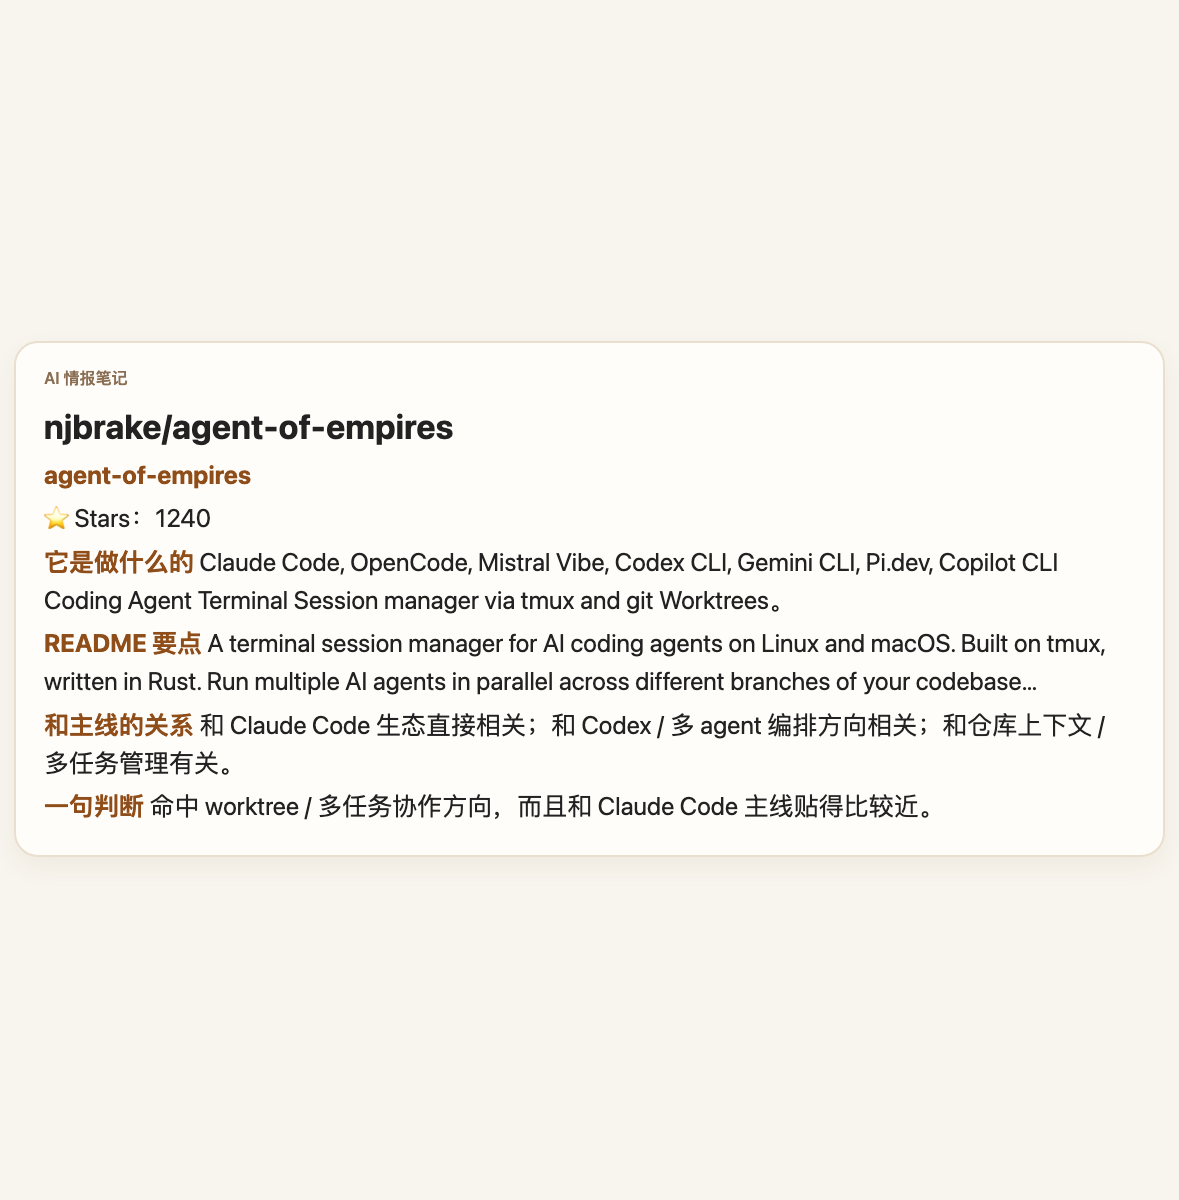
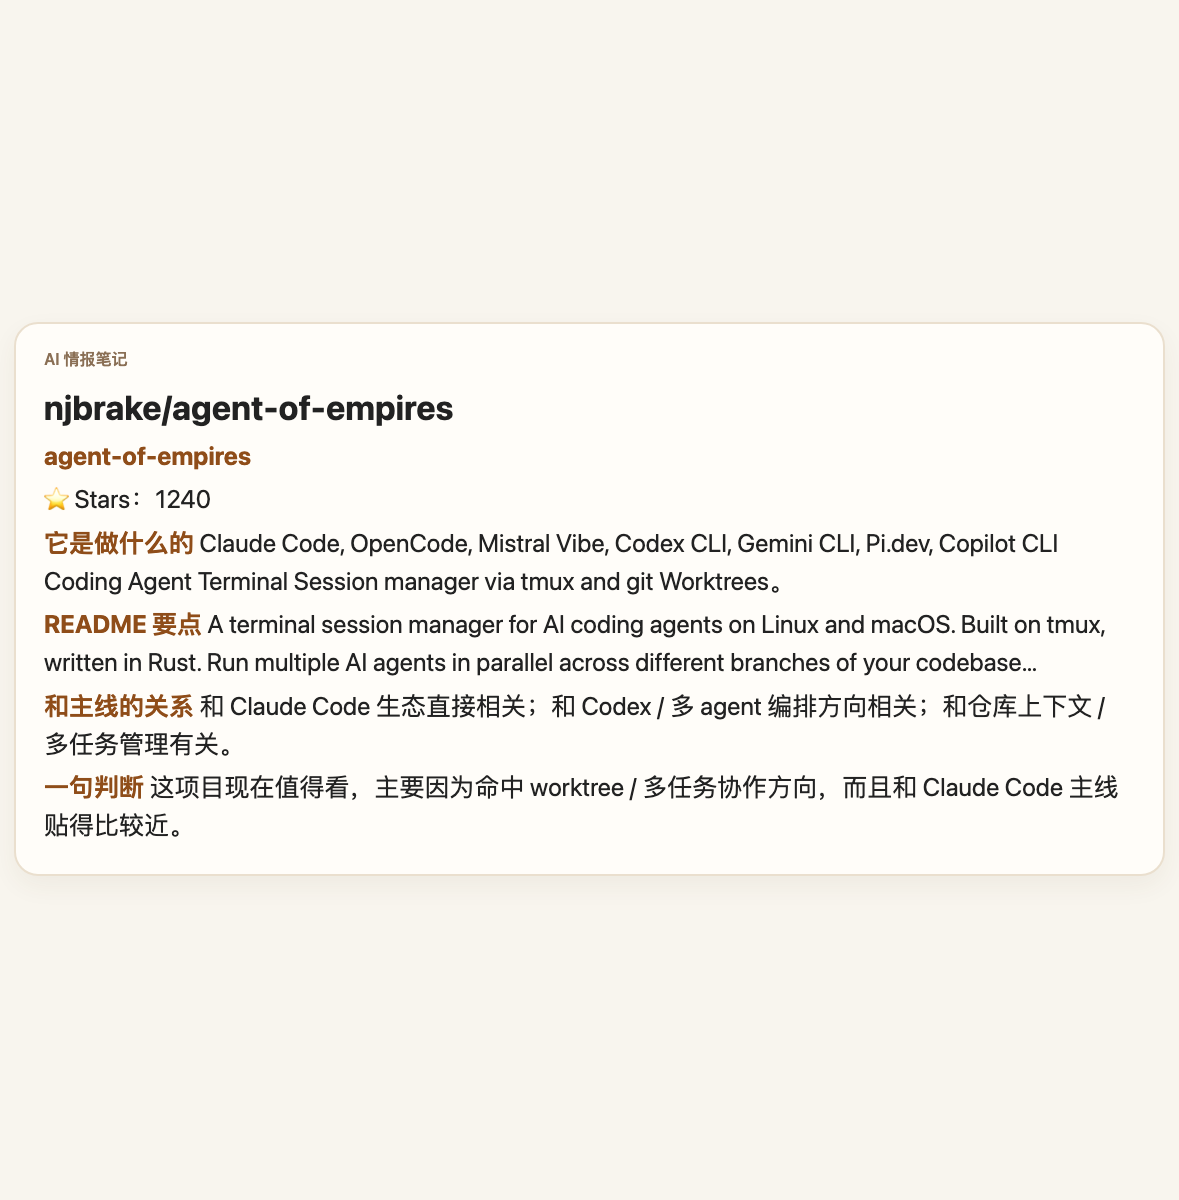
Add Xiaohongshu cards for GitHub AI Daily 2026-03-22

Changed region(s): [[0.0305, 0.2775, 0.9771, 0.74]]

diff --git a/xiaohongshu/github-ai-daily/2026-03-22-square-9/05-agor.md b/xiaohongshu/github-ai-daily/2026-03-22-square-9/05-agor.md
@@ -13,4 +13,4 @@ Think Figma, but for AI coding assistants. Orchestrate Claude Code, Codex, and G
 和 Claude Code 生态直接相关；和 Codex / 多 agent 编排方向相关；和仓库上下文 / 多任务管理有关。
 
 **一句判断**
-命中 worktree / 多任务协作方向，而且和 Claude Code 主线贴得比较近。
+这项目现在值得看，主要因为命中 worktree / 多任务协作方向，而且和 Claude Code 主线贴得比较近。

diff --git a/xiaohongshu/github-ai-daily/2026-03-22-square-9/06-agent-of-empires.md b/xiaohongshu/github-ai-daily/2026-03-22-square-9/06-agent-of-empires.md
@@ -13,4 +13,4 @@ A terminal session manager for AI coding agents on Linux and macOS. Built on tmu
 和 Claude Code 生态直接相关；和 Codex / 多 agent 编排方向相关；和仓库上下文 / 多任务管理有关。
 
 **一句判断**
-命中 worktree / 多任务协作方向，而且和 Claude Code 主线贴得比较近。
+这项目现在值得看，主要因为命中 worktree / 多任务协作方向，而且和 Claude Code 主线贴得比较近。

diff --git a/xiaohongshu/github-ai-daily/2026-03-22-square-9/09-supacode.md b/xiaohongshu/github-ai-daily/2026-03-22-square-9/09-supacode.md
@@ -13,4 +13,4 @@ Native terminal coding agents command center. Technical Stack The Composable Arc
 和仓库上下文 / 多任务管理有关。
 
 **一句判断**
-命中 worktree / 多任务协作方向，更偏仓库上下文和多任务管理。
+这项目现在值得看，主要因为命中 worktree / 多任务协作方向，更偏仓库上下文和多任务管理。

diff --git a/xiaohongshu/github-ai-daily/2026-03-22-square-9/08-gitclaw.md b/xiaohongshu/github-ai-daily/2026-03-22-square-9/08-gitclaw.md
@@ -13,4 +13,4 @@ Your agent lives inside a git repo — identity, rules, memory, tools, and skill
 和仓库上下文 / 多任务管理有关。
 
 **一句判断**
-命中 repo memory / 上下文方向，更偏仓库上下文和多任务管理。
+这项目现在值得看，主要因为命中 repo memory / 上下文方向，更偏仓库上下文和多任务管理。

diff --git a/xiaohongshu/github-ai-daily/2026-03-22-square-9/12-RPG-ZeroRepo.md b/xiaohongshu/github-ai-daily/2026-03-22-square-9/12-RPG-ZeroRepo.md
@@ -13,4 +13,4 @@ RPG-ZeroRepo RPG (Repository Planning Graph) is a hierarchical graph representat
 和仓库上下文 / 多任务管理有关。
 
 **一句判断**
-命中 repo memory / 上下文方向，更偏仓库上下文和多任务管理。
+这项目现在值得看，主要因为命中 repo memory / 上下文方向，更偏仓库上下文和多任务管理。

diff --git a/xiaohongshu/github-ai-daily/2026-03-22-square-9/14-claude-code-agents.md b/xiaohongshu/github-ai-daily/2026-03-22-square-9/14-claude-code-agents.md
@@ -13,4 +13,4 @@ Complete E2E Development Workflow For Solo Dev Startups Building with Next.js + 
 和 Claude Code 生态直接相关；属于多 agent 编排层。
 
 **一句判断**
-命中 subagent 方向，而且和 Claude Code 主线贴得比较近。
+这项目现在值得看，主要因为命中 subagent 方向，而且和 Claude Code 主线贴得比较近。

diff --git a/xiaohongshu/github-ai-daily/2026-03-22-square-9/07-claudish.md b/xiaohongshu/github-ai-daily/2026-03-22-square-9/07-claudish.md
@@ -13,4 +13,4 @@ Claude Code. Any Model. Use your existing AI subscriptions with Claude Code. Wor
 和 Claude Code 生态直接相关。
 
 **一句判断**
-命中 coding agent 主查询，而且和 Claude Code 主线贴得比较近。
+这项目现在值得看，主要因为命中 coding agent 主查询，而且和 Claude Code 主线贴得比较近。

diff --git a/xiaohongshu/github-ai-daily/2026-03-22-square-9/11-gptme.md b/xiaohongshu/github-ai-daily/2026-03-22-square-9/11-gptme.md
@@ -13,4 +13,4 @@ Your agent in your terminal, equipped with local tools: writes code, uses the te
 与 coding agent 工作流相关，但还需要进一步点进仓库确认成熟度。
 
 **一句判断**
-命中终端 coding agent 方向。
+这项目现在值得看，主要因为命中终端 coding agent 方向。

diff --git a/xiaohongshu/github-ai-daily/2026-03-22-square-9/13-vscode-acp.md b/xiaohongshu/github-ai-daily/2026-03-22-square-9/13-vscode-acp.md
@@ -13,4 +13,4 @@ ACP Client for VS Code A Visual Studio Code extension that provides a client for
 属于协议 / 工具接入层。
 
 **一句判断**
-命中协议 / 工具接入方向。
+这项目现在值得看，主要因为命中协议 / 工具接入方向。

diff --git a/xiaohongshu/github-ai-daily/2026-03-22-square-9/10-codecompanion.nvim.md b/xiaohongshu/github-ai-daily/2026-03-22-square-9/10-codecompanion.nvim.md
@@ -13,4 +13,4 @@
 与 coding agent 工作流相关，但还需要进一步点进仓库确认成熟度。
 
 **一句判断**
-命中协议 / 工具接入方向。
+这项目现在值得看，主要因为命中协议 / 工具接入方向。
